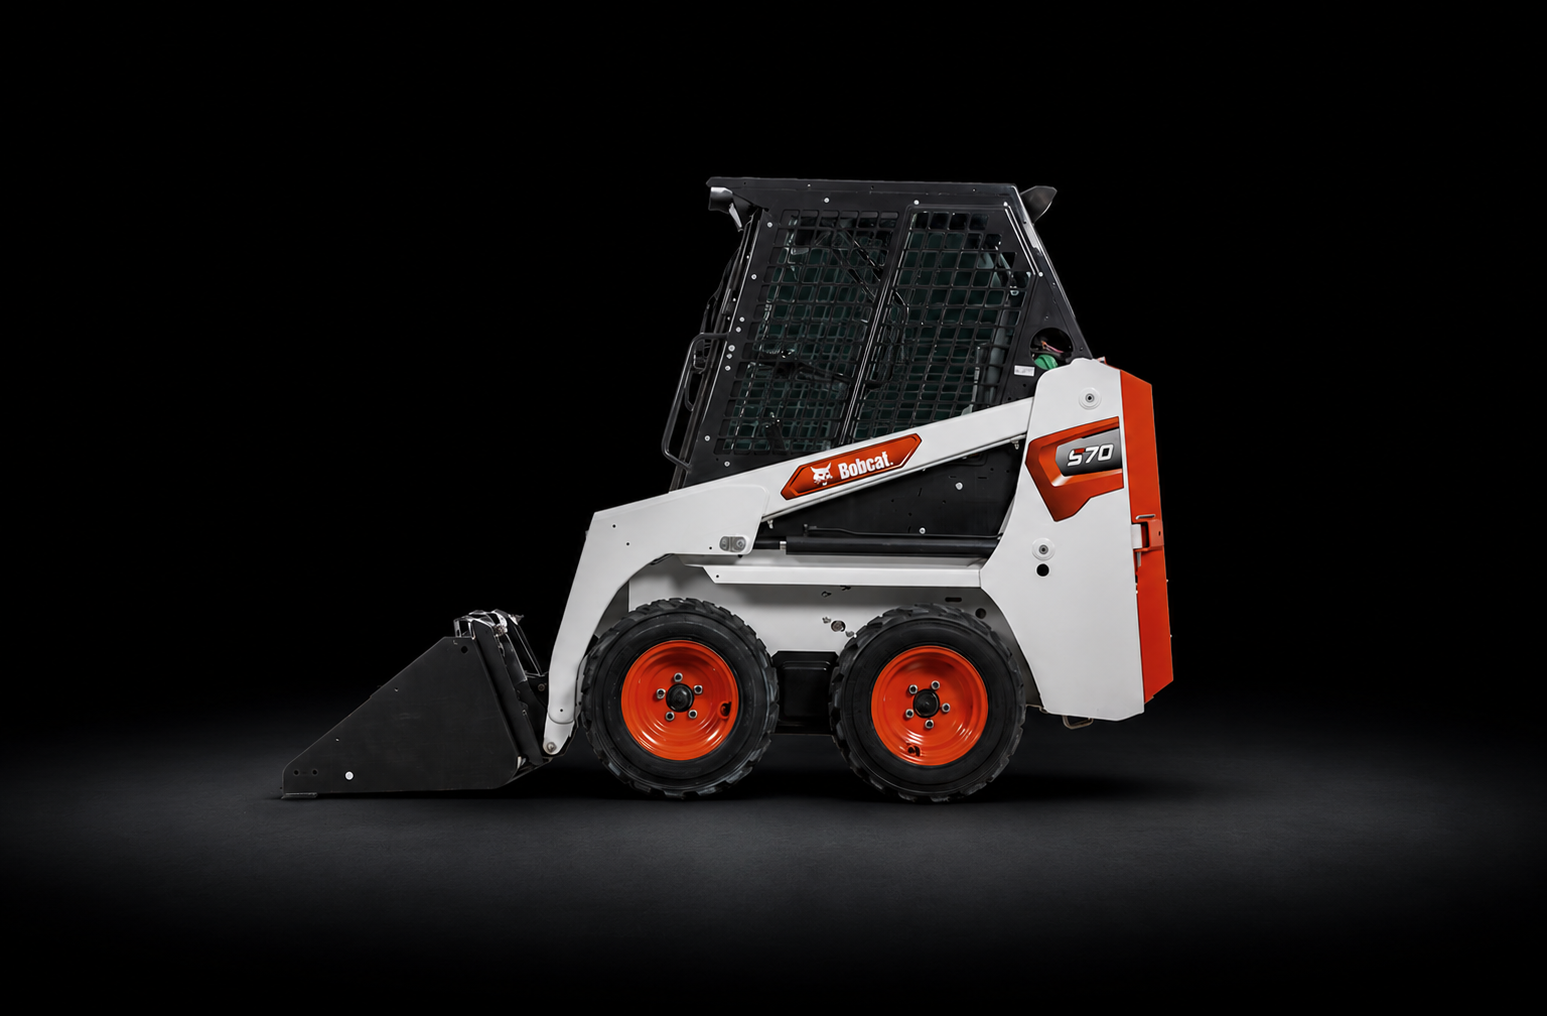
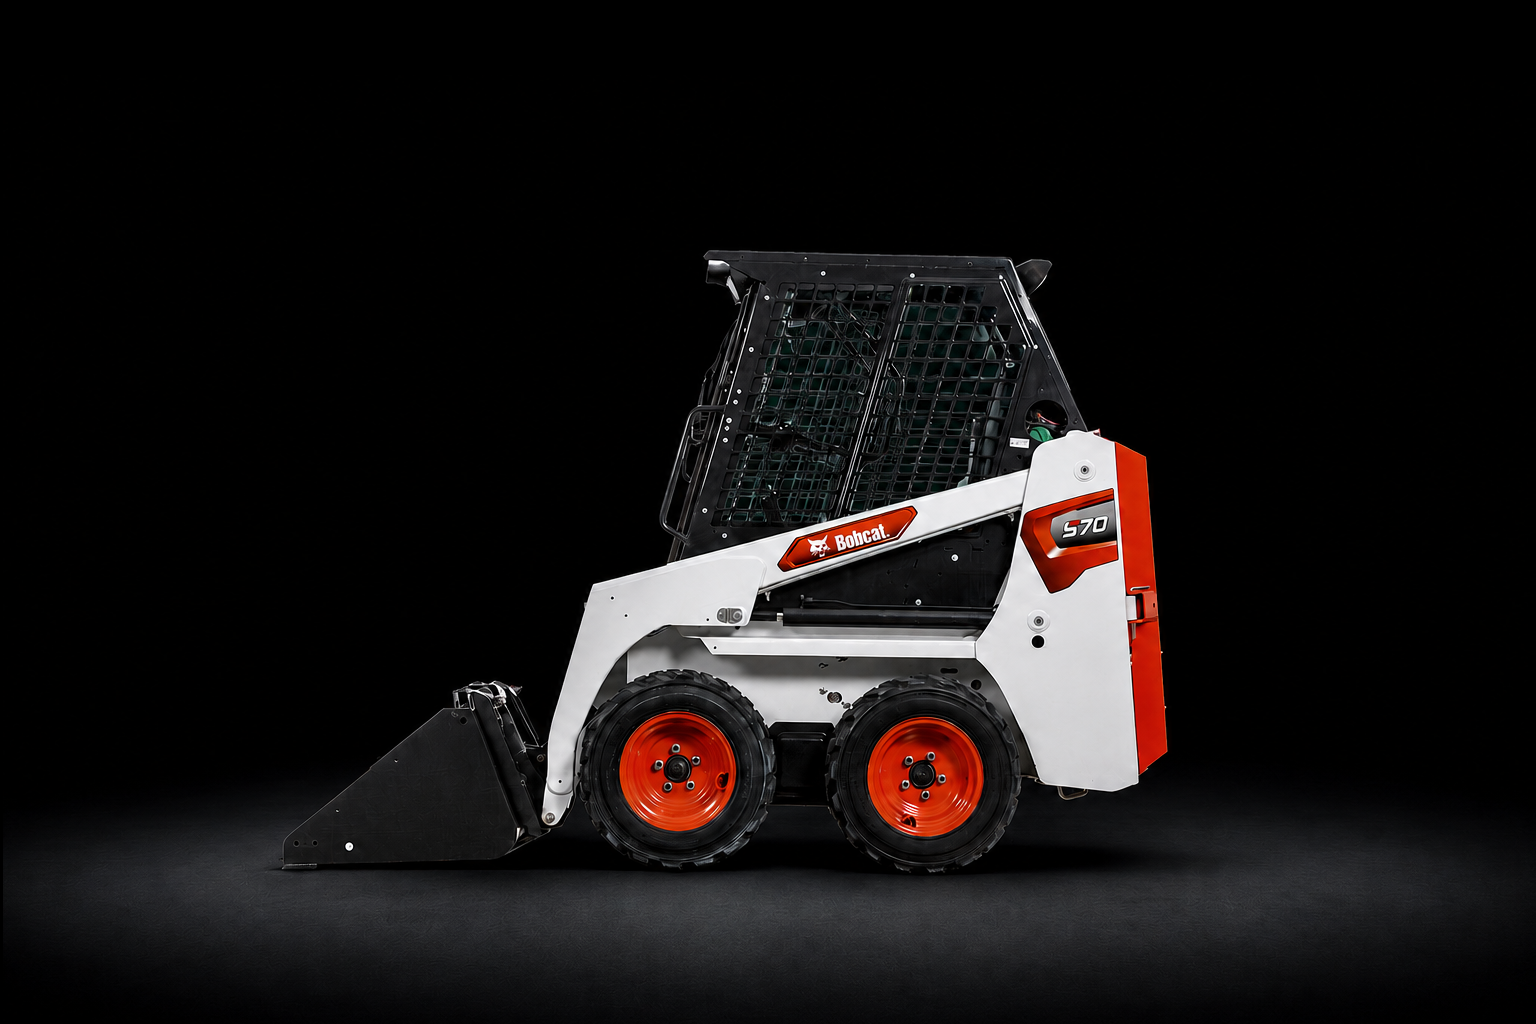
Feat:B

Changed region(s): [[0.0312, 0.1526, 0.9375, 0.9764]]

diff --git a/src/data/products.ts b/src/data/products.ts
@@ -6,8 +6,8 @@ import hero from "@/assets/hero-excavator.jpg";
 import s590Main from "@/assets/products/S590-main.png";
 import s70Main from "@/assets/products/S70-main.png";
 import s76Main from "@/assets/products/S76-main.png";
-import s100Main from "@/assets/products/S100-main.png";
 import s86Main from "@/assets/products/S86-main.png";
+import s100Main from "@/assets/products/S100-main.png";
 import s450Main from "@/assets/products/S450-main.png";
 import s510Main from "@/assets/products/S510-main.png";
 import s650Main from "@/assets/products/S650-main.png";
@@ -167,8 +167,7 @@ function bobcat(seed: BobcatSeed) {
   };
 }
 
-const BOBCAT_SEEDS = [
-  // 스키드 스티어 로더 (S 시리즈)
+const BOBCAT_SEEDS: BobcatSeed[] = [
   {
     code: "S70",
     category: "skid-loader",